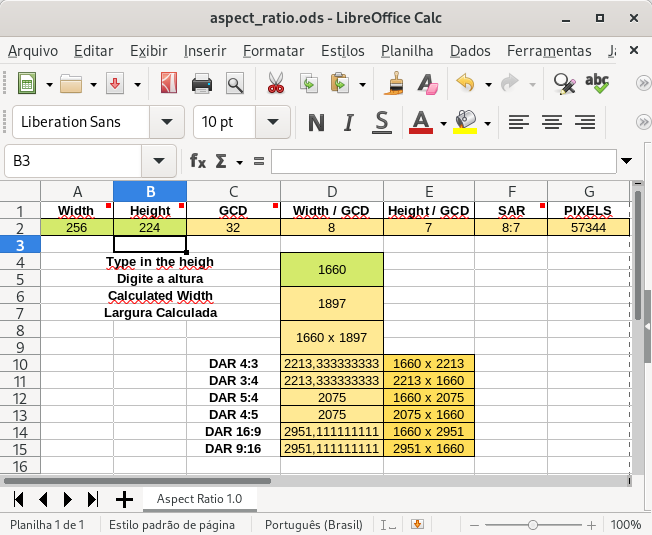
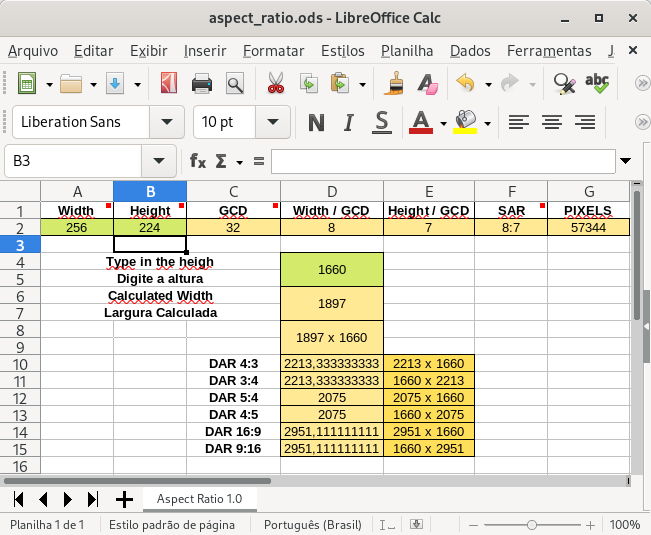
Alguns dados da planilha estavam invertidos

diff --git a/source/techspecs/layout_files.rst b/source/techspecs/layout_files.rst
@@ -2070,7 +2070,7 @@ Para esta tarefa precisamos dos seguintes itens:
   e 4 jogadores.
 * A arte utilizada aqui foi criada por `Etienne MacGyver
   <http://vectorlib.free.fr/Galaxian_Namco/>`_.
-* Uma `planilha <http://www.mediafire.com/file/srny2s304461bau/aspect_ratio.zip>`_
+* Uma `planilha <https://www.mediafire.com/file/ktc2ohsoiev9jmd/aspect_ratio.zip>`_
   feita com `LibreOffice <https://pt-br.libreoffice.org>`_ para
   facilitar o cálculo da relação de aspecto da tela.
 * Os botões foram criados pela minha amiga **u/cd4053b**.
@@ -2238,15 +2238,17 @@ desenho ou a arte que estiver utilizando.
 
 Com a posição da tela definida agora é necessário dimensioná-la mantendo
 a sua proporção **4:3** que é o padrão para a maioria dos arcades e
-telas CRT da época. A tela está invertida na horizontal então pegue o
-valor da **largura** como mostra a imagem acima e faça as contas::
+telas CRT da época. A tela está invertida com proporção **3:4** então
+pegue o valor da **largura** como mostra a imagem acima e faça as
+contas::
 
 	x = 1660 * (4 / 3)
 	x = 1660 * 1,333333333
 	x = 2213
 
 Ou utilize a ferramenta disponibilizada em :ref:`layfile-tools` para
-facilitar o cálculo destas dimensões.
+facilitar o cálculo destas dimensões exibindo o mesmo resultado no campo
+**3:4**.
 
 Insira os valores no campo **verde**, o primeiro campo verde no topo
 serve como uma fácil identificação da relação de aspecto da tela de um
